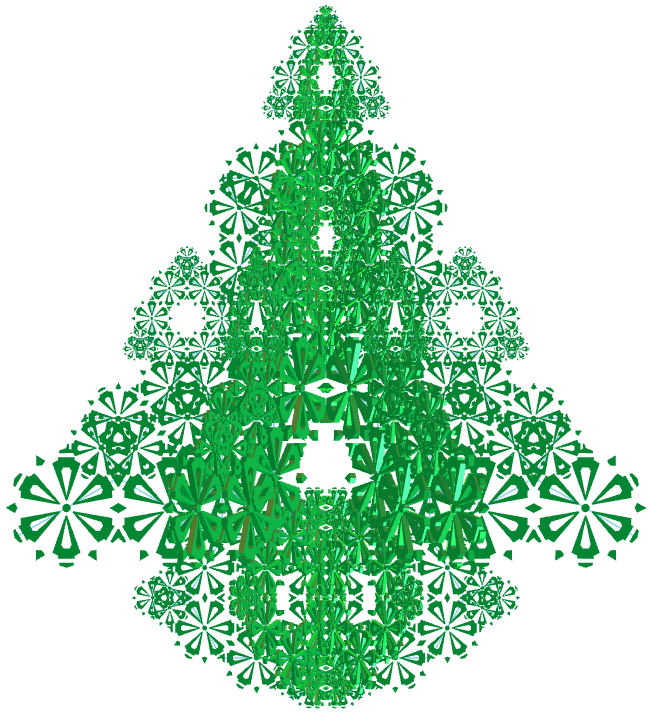
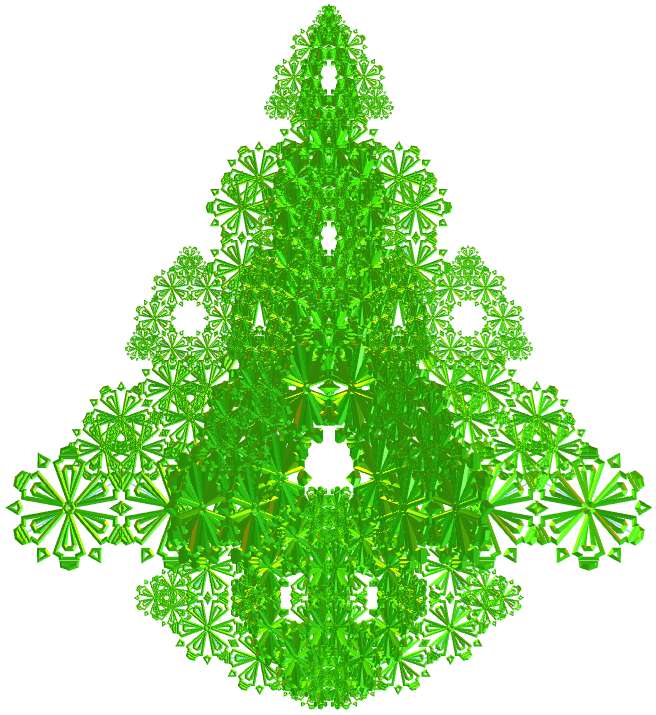
update

diff --git a/holidaytree/vr/curve120a.htm b/holidaytree/vr/curve120a.htm
@@ -20,12 +20,12 @@
 			<a-mixin id="p4a" position="0 2.448 0" rotation="0 0 180" mixin="sc"></a-mixin>
 			<a-mixin id="p5a" position="0.353 1.836 0" rotation="0 0 60" mixin="sc"></a-mixin>
 						
-			<a-mixin id="sc" scale="0.2778 0.2778 0.5778"></a-mixin>
-			<a-mixin id="sc1" scale="0.4772 0.4772 0.7772"></a-mixin>
+			<a-mixin id="sc" scale="0.2375 0.2375 0.2375"></a-mixin>
+			<a-mixin id="sc1" scale="0.408 0.408 0.408"></a-mixin>
 			<!--SCALE = scale de MTL4 * 0.475 e 0.816 -->
-			<a-mixin scale="1.71 1.71 1.71" rotation="0 0 0" id="ar" line__0="start: -1.5 0 0; end: 1.5 0 0; color: skyblue"></a-mixin><!--SCALE = inverso do scale de MTL4 -->
+			<a-mixin scale="2 2 2" rotation="0 0 0" id="ar" line__0="start: -1.5 0 0; end: 1.5 0 0; color: skyblue"></a-mixin><!--SCALE = inverso do scale de MTL4 -->
 			
-			<a-mixin id="mtl4" scale="0.5848 0.5848 0.5848" gltf-model="#aq"></a-mixin>
+			<a-mixin id="mtl4" scale="0.5 0.5 0.5" gltf-model="#aq"></a-mixin>
 			<!--SCALE = scale original * 0.618919 -->
 			<a-mixin id="mtl1" material="color: #5cb404; side:double;">
 			<a-asset-item id="mt" src="https://paulohscwb.github.io/polyhedra2/fractalnonconvex/vr/outros/c1b.mtl"></a-asset-item>

diff --git a/holidaytree/vr/curve120.htm b/holidaytree/vr/curve120.htm
@@ -20,8 +20,8 @@
 			<a-mixin id="p4a" position="0 2.448 0" rotation="0 0 180" mixin="sc"></a-mixin>
 			<a-mixin id="p5a" position="0.353 1.836 0" rotation="0 0 60" mixin="sc"></a-mixin>
 						
-			<a-mixin id="sc" scale="0.2375 0.2375 0.5675"></a-mixin>
-			<a-mixin id="sc1" scale="0.408 0.408 0.918"></a-mixin>
+			<a-mixin id="sc" scale="0.2375 0.2375 0.2375"></a-mixin>
+			<a-mixin id="sc1" scale="0.408 0.408 0.408"></a-mixin>
 			<!--SCALE = scale de MTL4 * 0.475 e 0.816 -->
 			<a-mixin scale="2 2 2" rotation="0 0 0" id="ar" line__0="start: -1.5 0 0; end: 1.5 0 0; color: skyblue"></a-mixin><!--SCALE = inverso do scale de MTL4 -->
 			

diff --git a/holidaytree/README.md b/holidaytree/README.md
@@ -32,7 +32,7 @@ The holiday tree fractal curve was created by Jeffrey Ventrella in 2019. It is a
  <p align="center"><img src="vr/salas/videos/curve1.gif" style="max-width: 85%; border-radius:5px;" loading="lazy" alt="RV de fractais"/></p> 
 <hr>
 <h3 id="m3d" align="center">3D models</h3>
-<!--<iframe width="560" height="315" style="max-width:100%" src="https://www.youtube.com/embed/videoseries?si=zDh9xjDqa51ac9P9&amp;list=PLEgIAfQR8vuA" title="YouTube video player" frameborder="0" allow="accelerometer; autoplay; clipboard-write; encrypted-media; gyroscope; picture-in-picture; web-share" allowfullscreen></iframe>-->
+<!--<iframe width="560" height="315" style="max-width:100%" src="https://www.youtube.com/embed/videoseries?si=iUfPa0HQckvG_1EZ&amp;list=PLGS4ChxG9n3w" title="YouTube video player" frameborder="0" allow="accelerometer; autoplay; clipboard-write; encrypted-media; gyroscope; picture-in-picture; web-share" allowfullscreen></iframe>-->
 <h4>1. Tetrahedron</h4>
 <a href="vr/curve1.htm" target="_blank" title="3D model" class="fotoA"><img src="ar/1A.png" class="foto" alt="Tetrahedron holiday tree curve fractal"></a>
  <br>Applying the construction principle of the holiday tree curve fractal with the tetrahedron, we obtain an tetrahedron holiday tree curve fractal. In the first order of construction of the fractal, we construct five new tetrahedra corresponding to one original polyhedron. In this example, we have solid representations in orders from 0 to 4. 

diff --git a/holidaytree/pt-br/README.md b/holidaytree/pt-br/README.md
@@ -32,7 +32,7 @@ function urlHandler(value) {
   <p align="center"><img src="../vr/salas/videos/curve1.gif" style="max-width: 85%; border-radius:5px;" loading="lazy" alt="VR immersive fractals"/></p> 
 <hr>
 <h3 id="m3d" align="center">Modelos 3D</h3>
-<!--<iframe width="560" height="315" style="max-width:100%" src="https://www.youtube.com/embed/videoseries?si=zDh9xjDqa51ac9P9&amp;list=PLEgIAfQR8vuA" title="YouTube video player" frameborder="0" allow="accelerometer; autoplay; clipboard-write; encrypted-media; gyroscope; picture-in-picture; web-share" allowfullscreen></iframe>-->
+<!--<iframe width="560" height="315" style="max-width:100%" src="https://www.youtube.com/embed/videoseries?si=iUfPa0HQckvG_1EZ&amp;list=PLGS4ChxG9n3w" title="YouTube video player" frameborder="0" allow="accelerometer; autoplay; clipboard-write; encrypted-media; gyroscope; picture-in-picture; web-share" allowfullscreen></iframe>-->
 <h4>1. Tetraedro</h4>
 <a href="../vr/curve1.htm" target="_blank" title="modelo 3D" class="fotoA"><img src="../ar/1A.png" class="foto" alt="Fractal da curva da árvore de Natal de tetraedro"></a>
  <br>Aplicando o princípio de construção do fractal da curva da árvore de Natal com o tetraedro, obtemos um fractal da curva da árvore de Natal de tetraedro. Na primeira ordem de construção do fractal, construímos cinco novos tetraedros correspondentes a um poliedro original. Neste exemplo, temos representações de ordens de 0 a 5.
